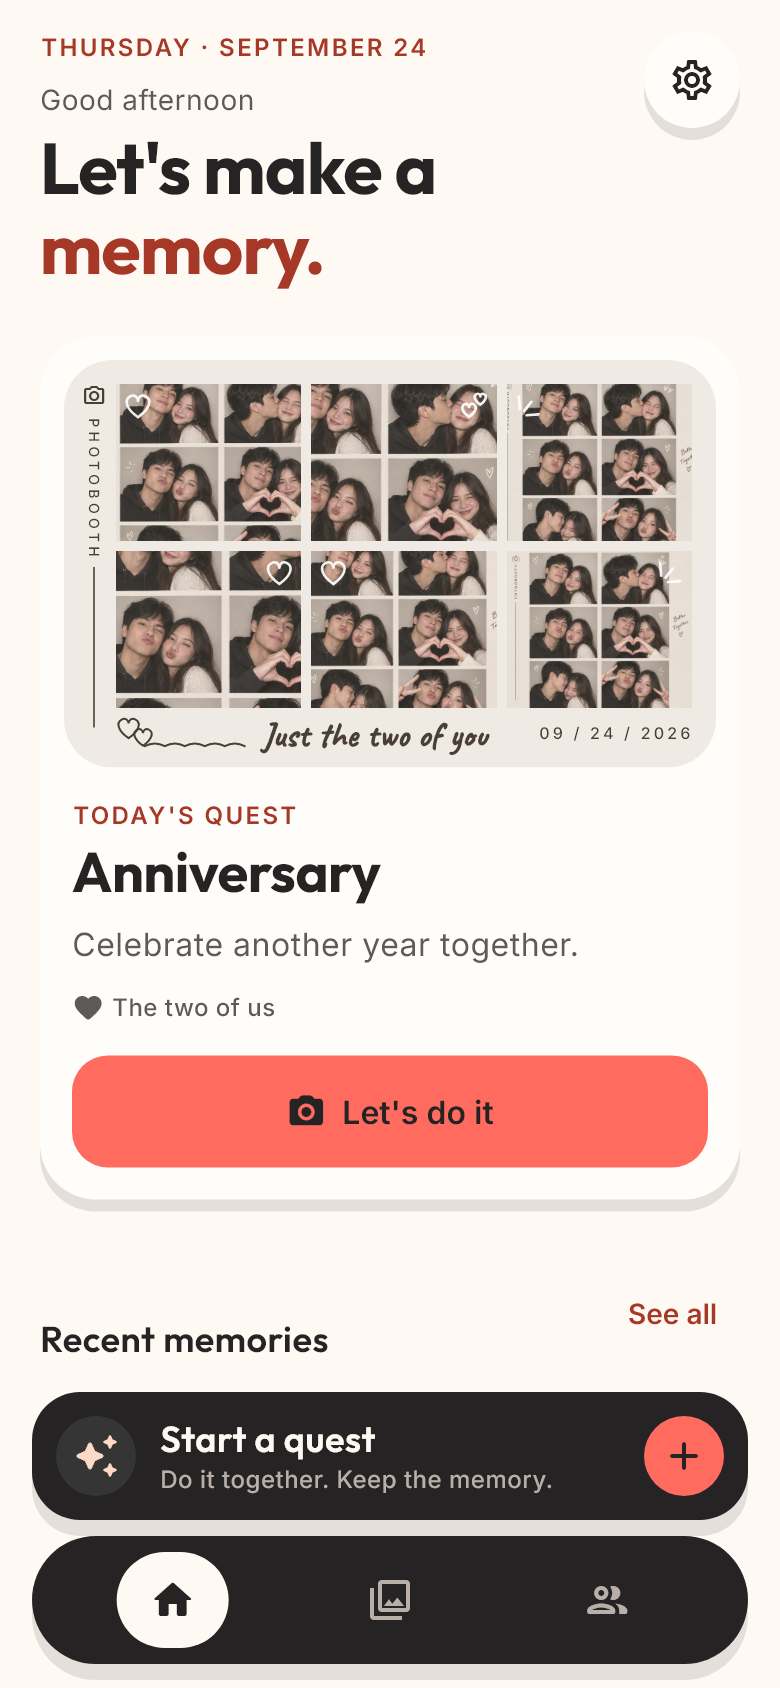
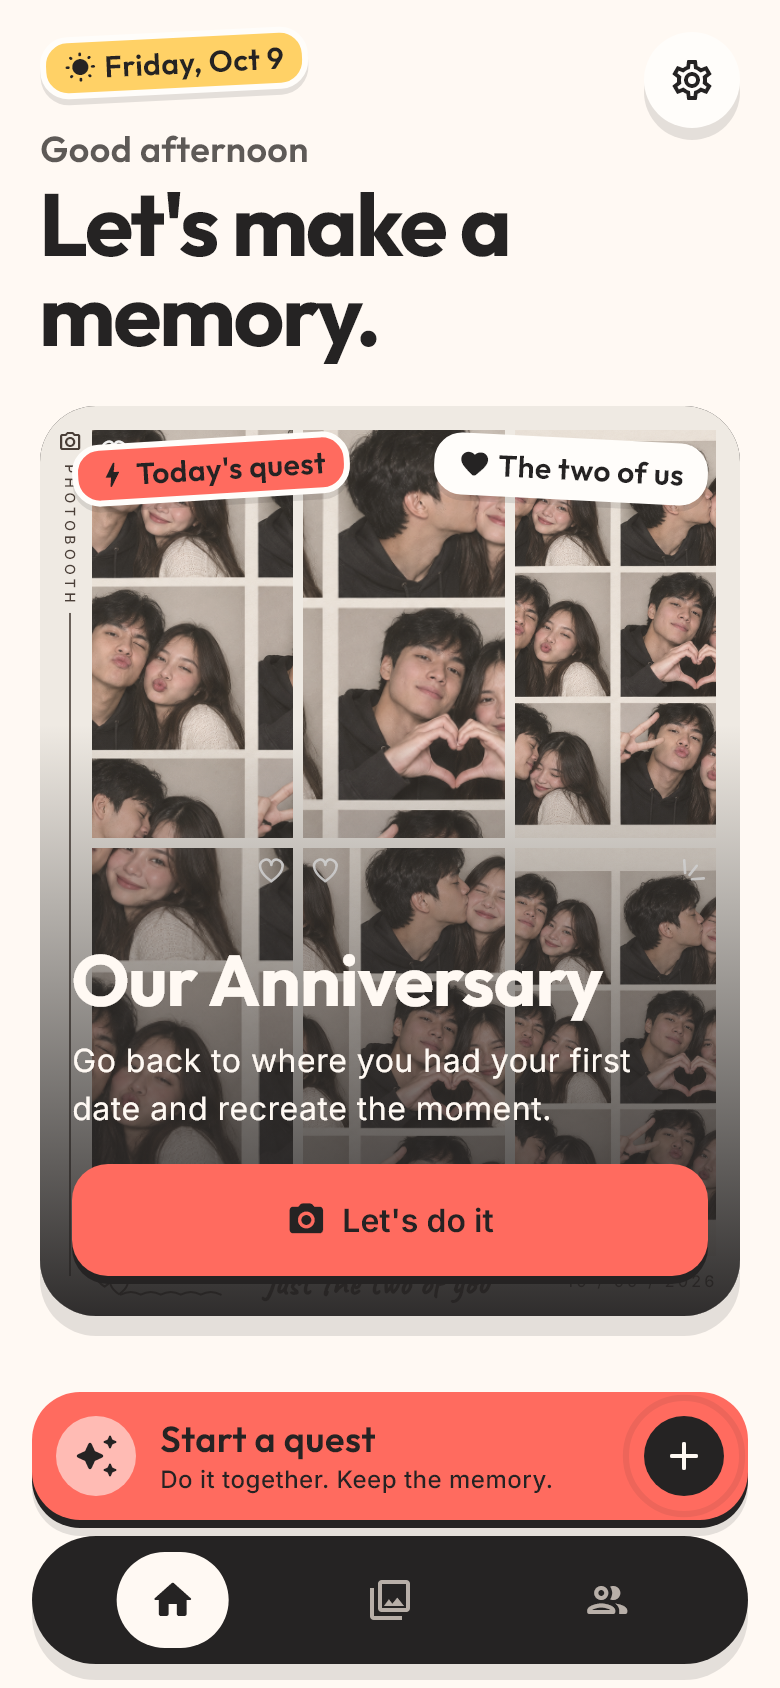
Enhance README.md with detailed design and features descriptions

diff --git a/README.md b/README.md
@@ -25,9 +25,9 @@ It's private by design: no feed, no likes, no followers. The app is
 handles sign-in and profile, and sharing is invite-only.
 
 <p align="center">
-  <img src="docs/screenshots/launch.png" alt="Launch screen" width="200" />
+  <img src="docs/screenshots/launch.png" alt="Welcome screen" width="200" />
   <img src="docs/screenshots/home.png" alt="Home with today's quest" width="200" />
-  <img src="docs/screenshots/memories.png" alt="Memories as journal pages" width="200" />
+  <img src="docs/screenshots/memories.png" alt="Memories as swipeable journal pages" width="200" />
   <img src="docs/screenshots/people.png" alt="People grouped by relationship" width="200" />
 </p>
 
@@ -35,10 +35,42 @@ handles sign-in and profile, and sharing is invite-only.
 
 - **Quests:** guided activities for couples, families, friends, pets or solo.
 - **Photobooth:** countdown, pose ideas, Photo / GIF / Boomerang / 360° modes.
-- **Memories:** a private journal of everything you captured.
+- **Memories:** a private, swipeable journal of everything you captured.
 - **Keepsakes:** printed strips, grids and polaroids to decorate and share.
 - **People & friends:** your circle, plus real friends added by friend code.
 - **Do it again:** repeat a quest and watch the memories grow.
+
+## Design
+
+The UI is a **warm photobooth with a nostalgic film feel**: cream paper, charcoal
+ink, coral for the one thing to do next. It should read like a keepsake box, not
+a dashboard.
+
+- **Poster-style cards:** quests, today's quest and memories are large
+  photo-first cards (`MdPosterCard`) with a charcoal fade under the text.
+- **Memories as a journal:** swipeable journal pages with fanned prints, tape,
+  handwritten (Caveat) captions, occasion tags and stickers, filtered by
+  *This day*, *This month* or *All journey*.
+- **People with story rings:** circles grouped by relationship, with real
+  friends shown alongside local contacts.
+- **Floating dock:** a three-tab charcoal bar (Home, Memories, People) with a
+  gliding selection bubble, and a "Start a quest" prompt above it.
+- **Playful feedback:** springy press on buttons, confetti and stickers on
+  rewards, short fade-and-slide entrances, and an animated Photo Quest mark on
+  the launch, welcome and account screens. Motion stays short and never blocks
+  the person.
+- **Photobooth:** dark, minimal camera screen with a big preview, countdown,
+  progress ring and a developing-print reveal.
+- **Calm loading:** a page shows a single skeleton while its data arrives
+  (the Screen decides; Templates never draw page loaders).
+
+Colors, type, spacing, motion and shadows are centralized in
+[`lib/config/constant/`](lib/config/constant/): Warm Coral `#FF6B5F`, Warm Cream
+`#FFF9F3`, Soft Peach `#FFD9C7`, Film Yellow `#FFD166`, Warm Charcoal `#252323`,
+Soft Green `#A8C7A1`. Headings use Outfit, body text Inter, handwriting Caveat.
+Widgets use semantic roles (`textMuted`, `coralInk`, `paper`) rather than raw
+brand colors so contrast holds. Every template has a
+`*_template_preview.dart` you can render without providers or a database.
 
 ## Tech stack
 
